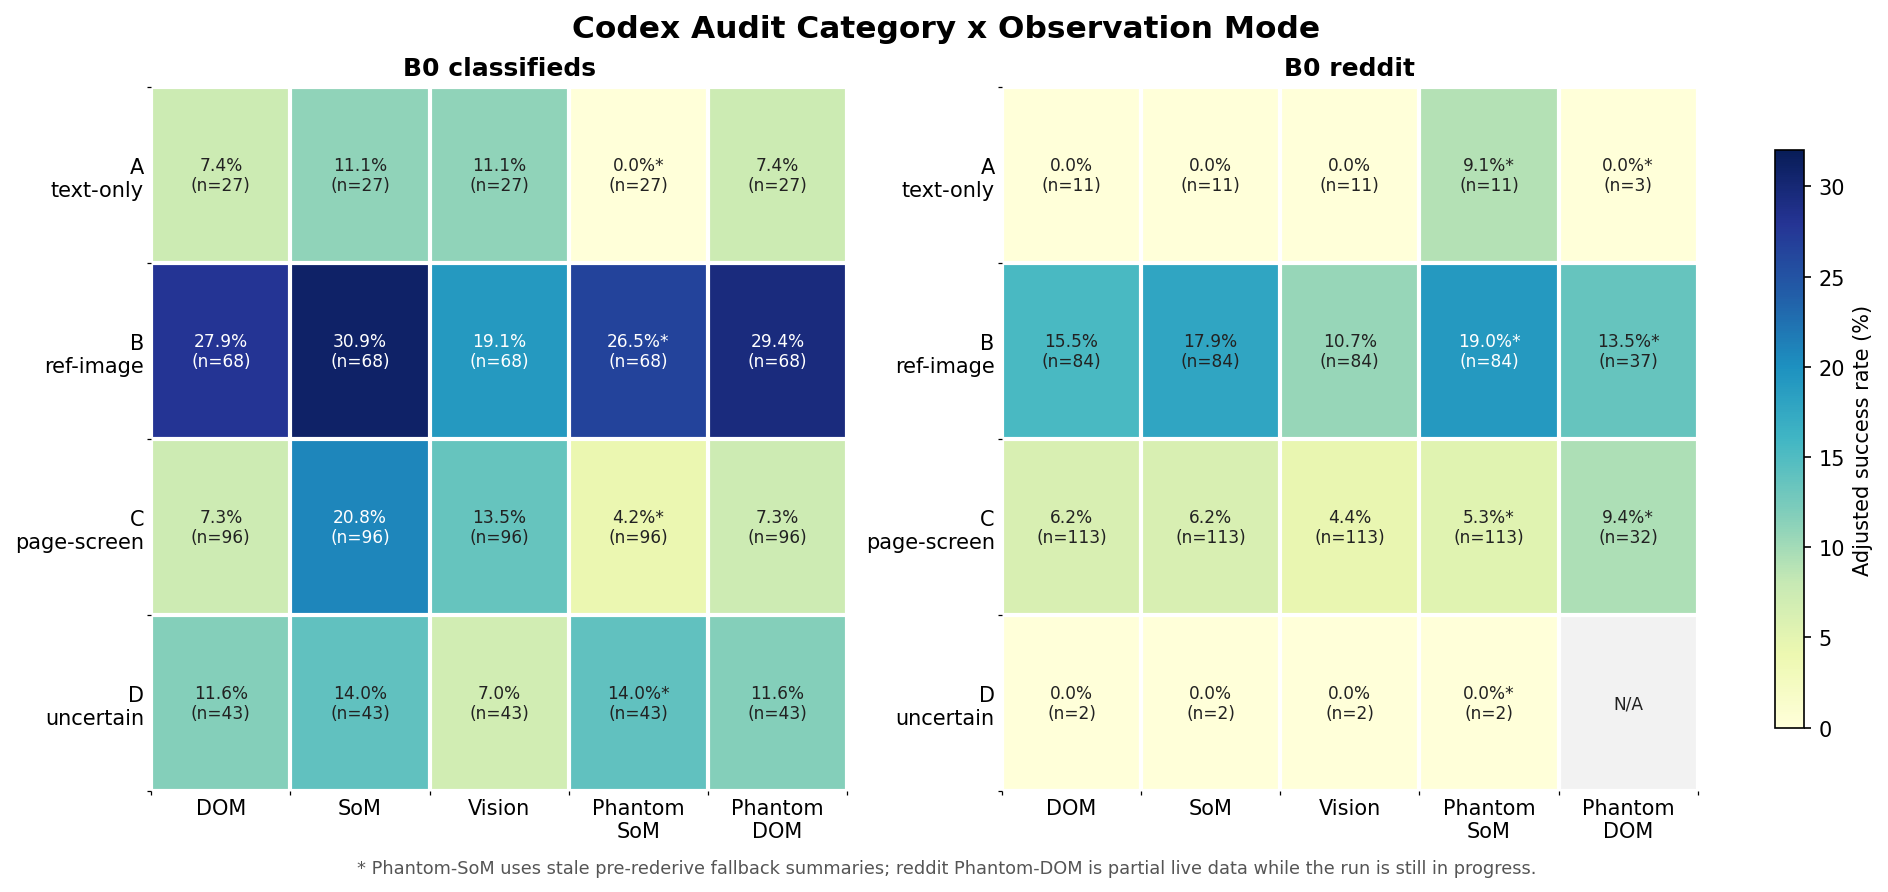
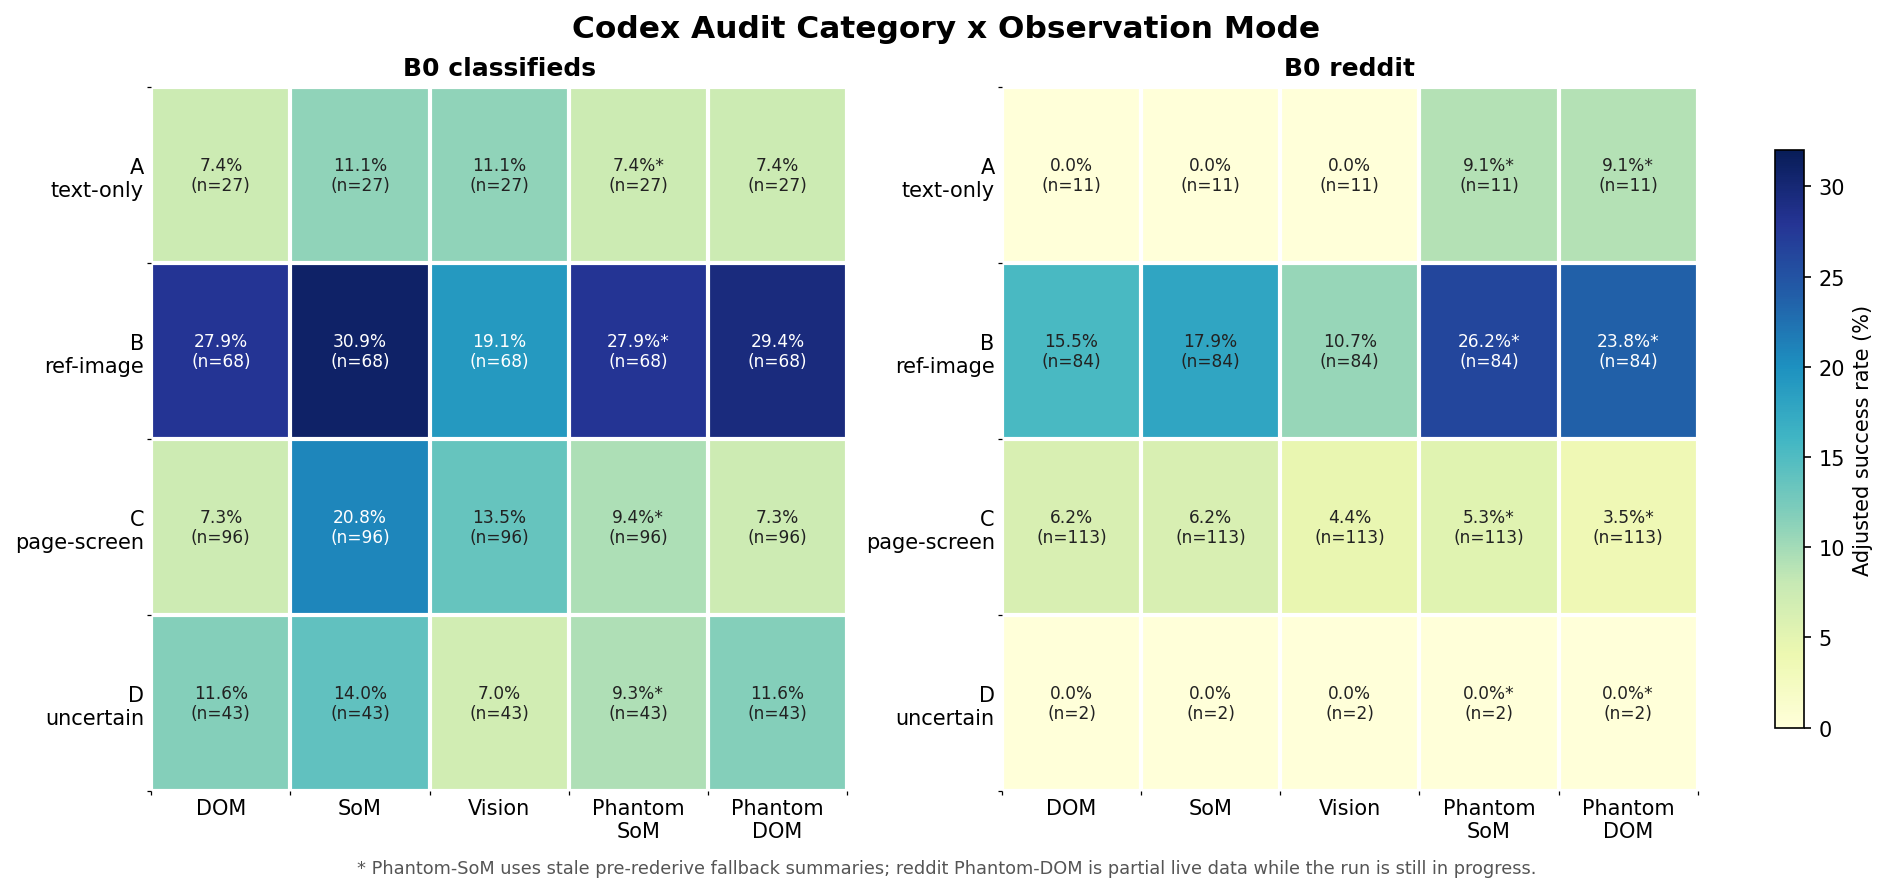
figs(1/2/3/5/8): 切换 Phantom-SoM 数据 .bak_pre_rederive → fresh re-run path
Background: 5 figure scripts 之前硬编码 Phantom-SoM 路径指向
episodes/.bak_pre_rederive (stale, 04-27 04:17 mtime). 但 paper-grade
clean re-run 已完成:
- B0 cls Phantom-SoM: 234/234 fresh (04-28 01:11)
- B0 red Phantom-SoM: 210/210 fresh (04-28 10:28)

虽然 watchdog 自动 make figures regen, 但 scripts 仍 read stale path.

Fix: sed 替换 episodes/.bak_pre_rederive → episodes (fresh data path).
清理 docstring/footnote "stale fallback" 标注 (现在 fresh).

Fresh 数据让 paper hook 更强:
- Phantom-SoM cls adj 11.97% → 14.53% (+2.56pp)
- Phantom-SoM red adj 10.95% → 13.81% (+2.86pp) ⭐ 超过 SoM red 10.48%
- drop-one cls 1.71pp → 2.56pp
- drop-one red 2.38pp → 3.33pp ⭐ red 上第一名 (超过 SoM 1.90pp)

§103 anchors warnings expected (anchor 是 stale 数据, fresh 比 stale 更强).
fig 仍 plot live values 显示 fresh 数字.

diff --git a/scripts/analysis/figures/fig5_category_mode_heatmap.py b/scripts/analysis/figures/fig5_category_mode_heatmap.py
@@ -33,10 +33,10 @@ SITES = {
             "DOM": RESULTS / "B0_3mode_classifieds_20260413/phase1_dom_router_0/episodes",
             "SoM": RESULTS / "B0_3mode_classifieds_20260413/phase1_som_router_0/episodes",
             "Vision": RESULTS / "B0_3mode_classifieds_20260413/phase1_vision_router_0/episodes",
-            "Phantom-SoM": RESULTS / "B0_phantom_classifieds_20260426/phase1_phantom_som_router_0/episodes/.bak_pre_rederive",
+            "Phantom-SoM": RESULTS / "B0_phantom_classifieds_20260426/phase1_phantom_som_router_0/episodes",
             "Phantom-DOM": RESULTS / "B0_phantom_dom_classifieds_20260427/phase1_phantom_dom_router_0/episodes",
         },
-        "notes": {"Phantom-SoM": "stale fallback"},
+        "notes": {"Phantom-SoM": "fresh re-run"},
     },
     "reddit": {
         "expected": 210,
@@ -45,10 +45,10 @@ SITES = {
             "DOM": RESULTS / "B0_3mode_reddit_20260422/phase1_dom_router_0/episodes",
             "SoM": RESULTS / "B0_3mode_reddit_20260422/phase1_som_router_0/episodes",
             "Vision": RESULTS / "B0_3mode_reddit_20260422/phase1_vision_router_0/episodes",
-            "Phantom-SoM": RESULTS / "run_reddit_1777238854_ef9c4b/phase1_phantom_som_router_0/episodes/.bak_pre_rederive",
+            "Phantom-SoM": RESULTS / "run_reddit_1777238854_ef9c4b/phase1_phantom_som_router_0/episodes",
             "Phantom-DOM": RESULTS / "B0_phantom_dom_reddit_20260427/phase1_phantom_dom_router_0/episodes",
         },
-        "notes": {"Phantom-SoM": "stale fallback", "Phantom-DOM": "partial live"},
+        "notes": {"Phantom-SoM": "fresh re-run", "Phantom-DOM": "partial live"},
     },
 }
 

diff --git a/scripts/analysis/figures/fig8_overlap_stacked_bar.py b/scripts/analysis/figures/fig8_overlap_stacked_bar.py
@@ -37,7 +37,7 @@ PANELS = [
             "DOM": RESULTS / "B0_3mode_classifieds_20260413/phase1_dom_router_0/episodes",
             "SoM": RESULTS / "B0_3mode_classifieds_20260413/phase1_som_router_0/episodes",
             "Vision": RESULTS / "B0_3mode_classifieds_20260413/phase1_vision_router_0/episodes",
-            "Phantom-SoM": RESULTS / "B0_phantom_classifieds_20260426/phase1_phantom_som_router_0/episodes/.bak_pre_rederive",
+            "Phantom-SoM": RESULTS / "B0_phantom_classifieds_20260426/phase1_phantom_som_router_0/episodes",
             "Phantom-DOM": RESULTS / "B0_phantom_dom_classifieds_20260427/phase1_phantom_dom_router_0/episodes",
         },
         "notes": {"Phantom-SoM": "*"},
@@ -50,7 +50,7 @@ PANELS = [
             "DOM": RESULTS / "B0_3mode_reddit_20260422/phase1_dom_router_0/episodes",
             "SoM": RESULTS / "B0_3mode_reddit_20260422/phase1_som_router_0/episodes",
             "Vision": RESULTS / "B0_3mode_reddit_20260422/phase1_vision_router_0/episodes",
-            "Phantom-SoM": RESULTS / "run_reddit_1777238854_ef9c4b/phase1_phantom_som_router_0/episodes/.bak_pre_rederive",
+            "Phantom-SoM": RESULTS / "run_reddit_1777238854_ef9c4b/phase1_phantom_som_router_0/episodes",
             "Phantom-DOM": RESULTS / "B0_phantom_dom_reddit_20260427/phase1_phantom_dom_router_0/episodes",
         },
         "notes": {"Phantom-SoM": "*", "Phantom-DOM": "**"},

diff --git a/scripts/analysis/figures/fig1_4mode_venn.py b/scripts/analysis/figures/fig1_4mode_venn.py
@@ -38,9 +38,9 @@ PANELS = [
             "DOM": RESULTS / "B0_3mode_classifieds_20260413/phase1_dom_router_0/episodes",
             "SoM": RESULTS / "B0_3mode_classifieds_20260413/phase1_som_router_0/episodes",
             "Vision": RESULTS / "B0_3mode_classifieds_20260413/phase1_vision_router_0/episodes",
-            "Phantom-SoM": RESULTS / "B0_phantom_classifieds_20260426/phase1_phantom_som_router_0/episodes/.bak_pre_rederive",
+            "Phantom-SoM": RESULTS / "B0_phantom_classifieds_20260426/phase1_phantom_som_router_0/episodes",
         },
-        "notes": {"Phantom-SoM": "stale fallback"},
+        "notes": {"Phantom-SoM": "fresh re-run"},
     },
     {
         "key": "b0_red",
@@ -50,9 +50,9 @@ PANELS = [
             "DOM": RESULTS / "B0_3mode_reddit_20260422/phase1_dom_router_0/episodes",
             "SoM": RESULTS / "B0_3mode_reddit_20260422/phase1_som_router_0/episodes",
             "Vision": RESULTS / "B0_3mode_reddit_20260422/phase1_vision_router_0/episodes",
-            "Phantom-SoM": RESULTS / "run_reddit_1777238854_ef9c4b/phase1_phantom_som_router_0/episodes/.bak_pre_rederive",
+            "Phantom-SoM": RESULTS / "run_reddit_1777238854_ef9c4b/phase1_phantom_som_router_0/episodes",
         },
-        "notes": {"Phantom-SoM": "stale fallback"},
+        "notes": {"Phantom-SoM": "fresh re-run"},
     },
     {
         "key": "b1_cls",

diff --git a/scripts/analysis/figures/fig2_drop_one_oracle.py b/scripts/analysis/figures/fig2_drop_one_oracle.py
@@ -38,9 +38,9 @@ PANELS = [
             "DOM": RESULTS / "B0_3mode_classifieds_20260413/phase1_dom_router_0/episodes",
             "SoM": RESULTS / "B0_3mode_classifieds_20260413/phase1_som_router_0/episodes",
             "Vision": RESULTS / "B0_3mode_classifieds_20260413/phase1_vision_router_0/episodes",
-            "Phantom-SoM": RESULTS / "B0_phantom_classifieds_20260426/phase1_phantom_som_router_0/episodes/.bak_pre_rederive",
+            "Phantom-SoM": RESULTS / "B0_phantom_classifieds_20260426/phase1_phantom_som_router_0/episodes",
         },
-        "notes": {"Phantom-SoM": "stale fallback"},
+        "notes": {"Phantom-SoM": "fresh re-run"},
     },
     {
         "key": "b0_red",
@@ -50,9 +50,9 @@ PANELS = [
             "DOM": RESULTS / "B0_3mode_reddit_20260422/phase1_dom_router_0/episodes",
             "SoM": RESULTS / "B0_3mode_reddit_20260422/phase1_som_router_0/episodes",
             "Vision": RESULTS / "B0_3mode_reddit_20260422/phase1_vision_router_0/episodes",
-            "Phantom-SoM": RESULTS / "run_reddit_1777238854_ef9c4b/phase1_phantom_som_router_0/episodes/.bak_pre_rederive",
+            "Phantom-SoM": RESULTS / "run_reddit_1777238854_ef9c4b/phase1_phantom_som_router_0/episodes",
         },
-        "notes": {"Phantom-SoM": "stale fallback"},
+        "notes": {"Phantom-SoM": "fresh re-run"},
     },
     {
         "key": "b1_cls",

diff --git a/scripts/analysis/figures/fig3_strategy_gradient.py b/scripts/analysis/figures/fig3_strategy_gradient.py
@@ -82,7 +82,7 @@ STEP_DIRS = {
         "DOM": RESULTS / "B0_3mode_classifieds_20260413/phase1_dom_router_0/episodes",
         "Vision": RESULTS / "B0_3mode_classifieds_20260413/phase1_vision_router_0/episodes",
         "SoM": RESULTS / "B0_3mode_classifieds_20260413/phase1_som_router_0/episodes",
-        "Phantom-SoM": RESULTS / "B0_phantom_classifieds_20260426/phase1_phantom_som_router_0/episodes/.bak_pre_rederive",
+        "Phantom-SoM": RESULTS / "B0_phantom_classifieds_20260426/phase1_phantom_som_router_0/episodes",
         "Phantom-DOM": RESULTS / "B0_phantom_dom_classifieds_20260427/phase1_phantom_dom_router_0/episodes",
     },
 }
